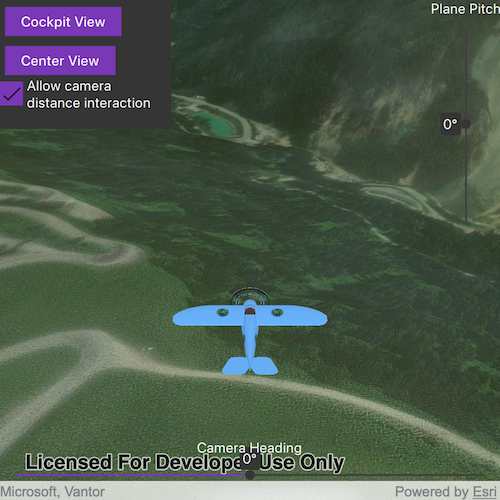
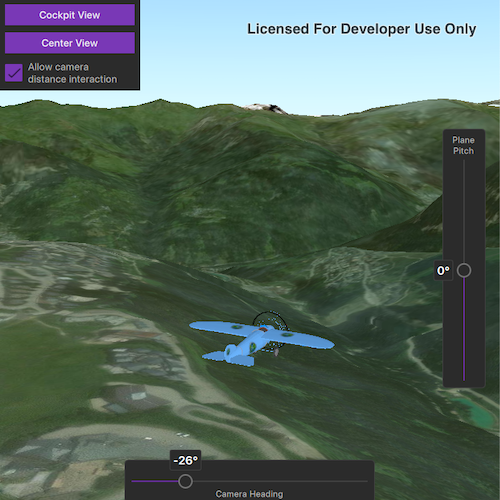
OrbitCameraAroundObject(Scene) - Custom slider improvements. Alignment fixes.

diff --git a/CppSamples/Scenes/OrbitCameraAroundObject/OrbitCameraAroundObject.qml b/CppSamples/Scenes/OrbitCameraAroundObject/OrbitCameraAroundObject.qml
@@ -39,127 +39,205 @@ Item {
     }
 
     //Camera heading slider, sits at the bottom of the screen
-    Slider {
-        id: cameraHeadingSlider
-
+    Rectangle {
+        id: cameraHeadingContainer
         anchors {
-            left: parent.left
-            right: parent.right
+            horizontalCenter: parent.horizontalCenter
             bottom: parent.bottom
             margins: 20
         }
-
-        value: model.cameraHeading //Value bound to the model, so rotating the camera will update the slider.
-        from: model.cameraHeadingBounds.x //Similarly, setting different initial bounds changes the UI automatically. Type used is QPointF for min/max, hence the x/y
-        to: model.cameraHeadingBounds.y
-
-        //To avoid getting stuck in a binding loop for the value, update the value of the camera heading from the slider only in response to a moving slider.
-        onMoved: {
-            model.cameraHeading = cameraHeadingSlider.value
+        width: parent.width * 0.5
+        height: 60
+        color: Qt.application.styleHints.colorScheme === Qt.ColorScheme.Dark ? "#2B2B2B" : "#FFFFFF"
+        radius: 5
+        border {
+            width: 1
+            color: Qt.application.styleHints.colorScheme === Qt.ColorScheme.Dark ? "#404040" : "#DFDFDF"
         }
 
-        //Custom slider handle that displays the current value
-        handle: Item {
-            x: parent.leftPadding + parent.visualPosition * (parent.availableWidth - headingHandleNub.width)
-            y: parent.topPadding + parent.availableHeight / 2 - headingHandleNub.height / 2
-
-
-            Rectangle {
-                id: headingHandleNub
-                color: headingHandleRect.color
-                radius: width * 0.5
-                width: 10
-                height: width
+        Slider {
+            id: cameraHeadingSlider
+            implicitHeight: 40
+            anchors {
+                left: parent.left
+                right: parent.right
+                top: parent.top
+                margins: 10
             }
-            Rectangle {
-                id: headingHandleRect
-                height: childrenRect.height
-                width: childrenRect.width
-                radius: 3
-                x: headingHandleNub.x - width / 2 + headingHandleNub.width / 2
-                y: headingHandleNub.y - height
-                color: palette.base
 
-                Label {
-                    id: headingValue
-                    font.pixelSize: 14
-                    padding: 3
-                    horizontalAlignment: Qt.AlignHCenter
-                    verticalAlignment: Qt.AlignVCenter
-                    text: qsTr(Math.round(cameraHeadingSlider.value) + "\u00B0")
+            value: model.cameraHeading
+            from: model.cameraHeadingBounds.x
+            to: model.cameraHeadingBounds.y
+
+            onMoved: {
+                model.cameraHeading = cameraHeadingSlider.value
+            }
+
+            background: Rectangle {
+                x: cameraHeadingSlider.leftPadding
+                y: cameraHeadingSlider.topPadding + cameraHeadingSlider.availableHeight / 2 - height / 2
+                implicitWidth: 200
+                implicitHeight: 2
+                width: cameraHeadingSlider.availableWidth
+                height: implicitHeight
+                color: Qt.application.styleHints.colorScheme === Qt.ColorScheme.Dark ? "#404040" : "#DFDFDF"
+
+                Rectangle {
+                    width: cameraHeadingSlider.visualPosition * parent.width
+                    height: parent.height
+                    color: palette.highlight
+                }
+            }
+
+            handle: Item {
+                x: parent.leftPadding + parent.visualPosition * (parent.availableWidth - headingHandleNub.width)
+                y: parent.topPadding + parent.availableHeight / 2 - headingHandleNub.height / 2
+
+                Rectangle {
+                    id: headingHandleNub
+                    color: Qt.application.styleHints.colorScheme === Qt.ColorScheme.Dark ? "#2B2B2B" : "#FFFFFF"
+                    radius: width * 0.5
+                    width: 20
+                    height: width
+                    border.width: 2
+                    border.color: Qt.application.styleHints.colorScheme === Qt.ColorScheme.Dark ? "#757575" : "#949494"
+                }
+                Rectangle {
+                    id: headingHandleRect
+                    height: childrenRect.height
+                    width: childrenRect.width
+                    radius: 3
+                    x: headingHandleNub.x - width / 2 + headingHandleNub.width / 2
+                    y: headingHandleNub.y - height - 5
+                    color: Qt.application.styleHints.colorScheme === Qt.ColorScheme.Dark ? "#2B2B2B" : "#FFFFFF"
+                    border.width: 1
+                    border.color: Qt.application.styleHints.colorScheme === Qt.ColorScheme.Dark ? "#404040" : "#DFDFDF"
+
+                    Label {
+                        id: headingValue
+                        font.pixelSize: 16
+                        font.bold: true
+                        padding: 5
+                        horizontalAlignment: Qt.AlignHCenter
+                        verticalAlignment: Qt.AlignVCenter
+                        text: qsTr(Math.round(cameraHeadingSlider.value) + "\u00B0")
+                        color: Qt.application.styleHints.colorScheme === Qt.ColorScheme.Dark ? "#FFFFFF" : "#151515"
+                    }
                 }
             }
         }
-    }
 
-    Label {
-        id: cameraHeadingLabel
-
-        anchors {
-            horizontalCenter: cameraHeadingSlider.horizontalCenter
-            bottom: cameraHeadingSlider.top
-            bottomMargin: 10
+        Label {
+            id: cameraHeadingLabel
+            anchors {
+                horizontalCenter: parent.horizontalCenter
+                bottom: parent.bottom
+                bottomMargin: 5
+            }
+            text: qsTr("Camera Heading")
+            font.pixelSize: 12
+            color: Qt.application.styleHints.colorScheme === Qt.ColorScheme.Dark ? "#BFBFBF" : "#4A4A4A"
         }
-
-        text: qsTr("Camera Heading")
     }
 
     //Plane pitch slider, placed in the top-right of the screen
-    Label {
-        id: planePitchLabel
-
+    Rectangle {
+        id: planePitchContainer
         anchors {
-            horizontalCenter: planePitchSlider.horizontalCenter
-            bottom: planePitchSlider.top
-            bottomMargin: 10
-        }
-
-        text: qsTr("Plane Pitch")
-    }
-
-    Slider {
-        id: planePitchSlider
-
-        anchors {
-            top: parent.top
-            bottom: parent.verticalCenter
             right: parent.right
-            margins: 30
+            verticalCenter: parent.verticalCenter
+            margins: 20
+        }
+        width: 60
+        height: parent.height * 0.5
+        color: Qt.application.styleHints.colorScheme === Qt.ColorScheme.Dark ? "#2B2B2B" : "#FFFFFF"
+        radius: 5
+        border {
+            width: 1
+            color: Qt.application.styleHints.colorScheme === Qt.ColorScheme.Dark ? "#404040" : "#DFDFDF"
         }
 
-        value: 0
-        from: 90
-        to: -90
-        orientation: Qt.Vertical
-
-        //Custom slider handle that displays the current value
-        handle: Item {
-            x: planePitchSlider.leftPadding + planePitchSlider.availableWidth / 2 - pitchHandleNub.width / 2
-            y: planePitchSlider.topPadding + planePitchSlider.visualPosition * (planePitchSlider.availableHeight - pitchHandleNub.height)
-
-            Rectangle {
-                id: pitchHandleNub
-                color: pitchHandleRect.color
-                radius: width * 0.5
-                width: 10
-                height: width
+        Label {
+            id: planePitchLabel
+            anchors {
+                horizontalCenter: parent.horizontalCenter
+                top: parent.top
+                topMargin: 8
             }
-            Rectangle {
-                id: pitchHandleRect
-                height: childrenRect.height
-                width: childrenRect.width
-                radius: 3
-                x: pitchHandleNub.x - width
-                y: pitchHandleNub.y - height/2 + pitchHandleNub.height/2
-                color: palette.base
+            text: qsTr("Plane\nPitch")
+            font.pixelSize: 12
+            horizontalAlignment: Text.AlignHCenter
+            color: Qt.application.styleHints.colorScheme === Qt.ColorScheme.Dark ? "#BFBFBF" : "#4A4A4A"
+        }
 
-                Label {
-                    id: pitchValue
-                    font.pixelSize: 14
-                    padding: 3
-                    horizontalAlignment: Qt.AlignHCenter
-                    verticalAlignment: Qt.AlignVCenter
-                    text: qsTr(Math.round(planePitchSlider.value)  + "\u00B0")
+        Slider {
+            id: planePitchSlider
+            implicitWidth: 40
+            anchors {
+                top: planePitchLabel.bottom
+                bottom: parent.bottom
+                horizontalCenter: parent.horizontalCenter
+                topMargin: 5
+                bottomMargin: 10
+            }
+
+            value: 0
+            from: 90
+            to: -90
+            orientation: Qt.Vertical
+
+            background: Rectangle {
+                x: planePitchSlider.leftPadding + planePitchSlider.availableWidth / 2 - width / 2
+                y: planePitchSlider.topPadding
+                implicitWidth: 2
+                implicitHeight: 160
+                width: implicitWidth
+                height: planePitchSlider.availableHeight
+                color: Qt.application.styleHints.colorScheme === Qt.ColorScheme.Dark ? "#404040" : "#DFDFDF"
+
+                Rectangle {
+                    y: planePitchSlider.visualPosition * parent.height
+                    width: parent.width
+                    height: planePitchSlider.position * parent.height
+                    color: palette.highlight
+                }
+            }
+
+            //Custom slider handle that displays the current value
+            handle: Item {
+                x: planePitchSlider.leftPadding + planePitchSlider.availableWidth / 2 - pitchHandleNub.width / 2
+                y: planePitchSlider.topPadding + planePitchSlider.visualPosition * (planePitchSlider.availableHeight - pitchHandleNub.height)
+
+                Rectangle {
+                    id: pitchHandleNub
+                    color: Qt.application.styleHints.colorScheme === Qt.ColorScheme.Dark ? "#2B2B2B" : "#FFFFFF"
+                    radius: width * 0.5
+                    width: 20
+                    height: width
+                    border.width: 2
+                    border.color: Qt.application.styleHints.colorScheme === Qt.ColorScheme.Dark ? "#757575" : "#949494"
+                }
+                Rectangle {
+                    id: pitchHandleRect
+                    height: childrenRect.height
+                    width: childrenRect.width
+                    radius: 3
+                    x: pitchHandleNub.x - width - 5
+                    y: pitchHandleNub.y - height/2 + pitchHandleNub.height/2
+                    color: Qt.application.styleHints.colorScheme === Qt.ColorScheme.Dark ? "#2B2B2B" : "#FFFFFF"
+                    border.width: 1
+                    border.color: Qt.application.styleHints.colorScheme === Qt.ColorScheme.Dark ? "#404040" : "#DFDFDF"
+
+                    Label {
+                        id: pitchValue
+                        font.pixelSize: 16
+                        font.bold: true
+                        padding: 5
+                        horizontalAlignment: Qt.AlignHCenter
+                        verticalAlignment: Qt.AlignVCenter
+                        text: qsTr(Math.round(planePitchSlider.value)  + "\u00B0")
+                        color: Qt.application.styleHints.colorScheme === Qt.ColorScheme.Dark ? "#FFFFFF" : "#151515"
+                    }
                 }
             }
         }
@@ -171,50 +249,43 @@ Item {
             left: parent.left
             top: parent.top
         }
-
-        height: childrenRect.height
-        width: childrenRect.width
-        color: palette.base
+        height: viewOptionsColumn.implicitHeight + 16
+        width: viewOptionsColumn.implicitWidth + 16
+        color: Qt.application.styleHints.colorScheme === Qt.ColorScheme.Dark ? "#2B2B2B" : "#FFFFFF"
+        border{
+            width: 1
+            color: Qt.application.styleHints.colorScheme === Qt.ColorScheme.Dark ? "#404040" : "#DFDFDF"
+        }
 
         Column {
+            id: viewOptionsColumn
             spacing: 10
-            padding: 10
+            anchors.centerIn: parent
+
             Button {
                 text: qsTr("Cockpit View")
+                implicitWidth: 180
                 onClicked: {
                     model.cockpitView();
                     allowCamDistanceInteractionCheckBox.enabled = false;
-                    allowCamDistanceInteractionCheckBoxText.color = "gray";
                 }
             }
 
             Button {
                 text: qsTr("Center View")
+                implicitWidth: 180
                 onClicked: {
                     model.centerView();
                     allowCamDistanceInteractionCheckBox.enabled = true;
-                    allowCamDistanceInteractionCheckBoxText.color = "white";
                 }
             }
 
-            Row {
-                anchors {
-                    left: parent.left
-                }
-
-                CheckBox {
-                    id: allowCamDistanceInteractionCheckBox
-                    checked: model.allowCamDistanceInteraction
-                    onCheckedChanged: model.allowCamDistanceInteraction = checked
-                }
-
-                Label {
-                    id: allowCamDistanceInteractionCheckBoxText
-                    anchors {
-                        verticalCenter: allowCamDistanceInteractionCheckBox.verticalCenter
-                    }
-                    text: qsTr("Allow camera\ndistance interaction")
-                }
+            CheckBox {
+                id: allowCamDistanceInteractionCheckBox
+                implicitWidth: 180
+                checked: model.allowCamDistanceInteraction
+                onCheckedChanged: model.allowCamDistanceInteraction = checked
+                text: qsTr("Allow camera\ndistance interaction")
             }
         }
     }
